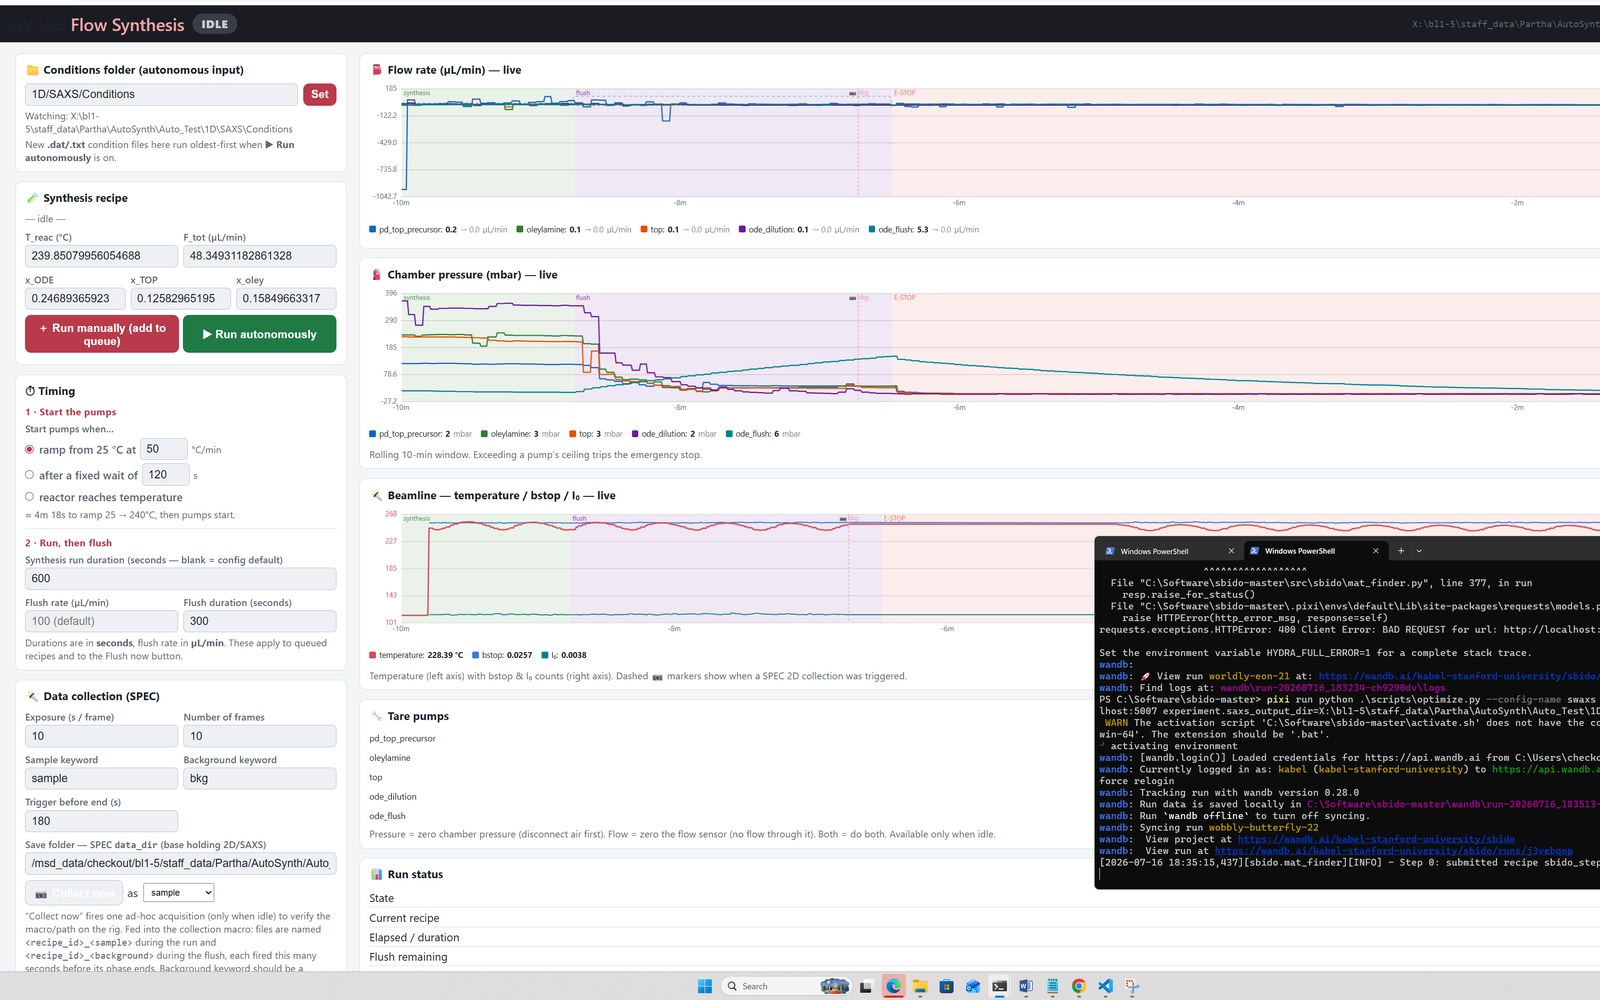
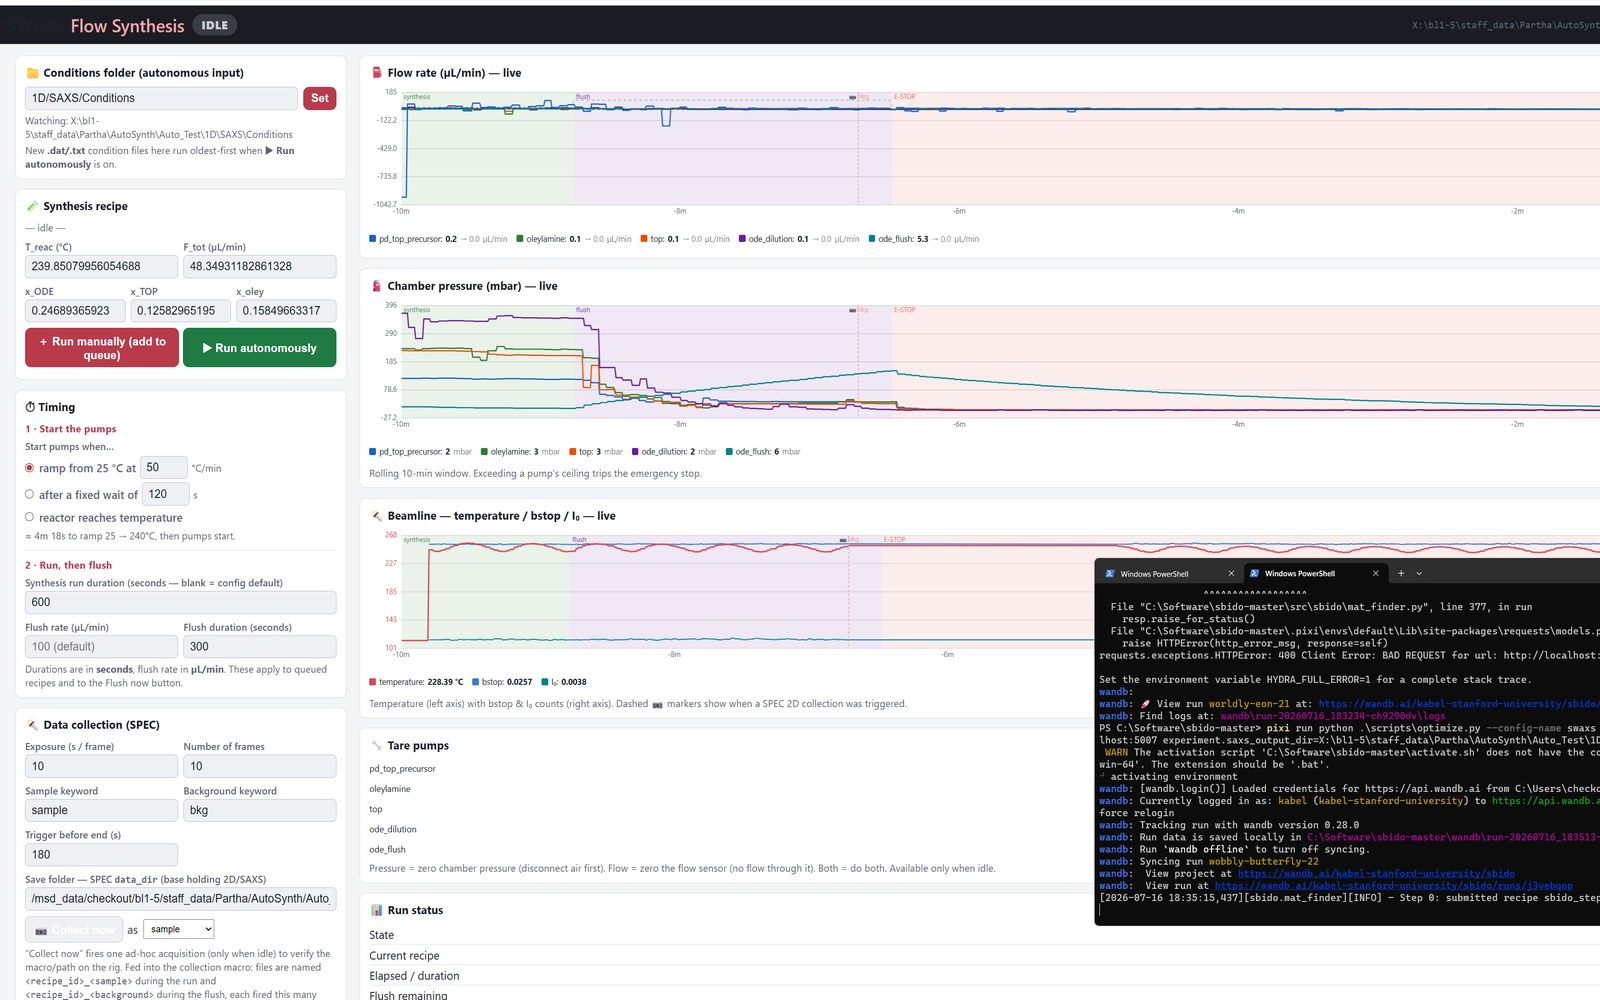
Add APS 12-ID-B RheoSAXS beamline card with cropped photos

diff --git a/index.html b/index.html
@@ -1430,12 +1430,43 @@
       <div class="bt-stats">
         <div class="bt-stat"><span class="bt-stat-n">5</span><span class="bt-stat-l">facilities</span></div>
         <div class="bt-stat"><span class="bt-stat-n">11</span><span class="bt-stat-l">beamlines</span></div>
-        <div class="bt-stat"><span class="bt-stat-n">2</span><span class="bt-stat-l">setups built</span></div>
+        <div class="bt-stat"><span class="bt-stat-n">3</span><span class="bt-stat-l">setups built</span></div>
         <div class="bt-stat"><span class="bt-stat-n">6</span><span class="bt-stat-l">techniques</span></div>
       </div>
 
       <h3 class="subhead">SSRL &#183; Stanford Synchrotron Radiation Lightsource</h3>
       <div class="bt-grid">
+        <article class="bt-card bt-feature">
+          <div class="bt-media">
+            <div class="slide-container">
+              <div class="slide-wrapper">
+                <img src="https://raw.githubusercontent.com/anjanikmaurya/anjanikmaurya.github.io/main/BL/BL15_AutoSynth_01.jpg" alt="Autonomous flow-synthesis reactor and syringe pumps in the beam at SSRL 1-5" loading="lazy">
+                <img src="https://raw.githubusercontent.com/anjanikmaurya/anjanikmaurya.github.io/main/BL/BL15_AutoSynth_02.jpg" alt="Control dashboard showing live flow rate, chamber pressure and beamline signals during an autonomous run" loading="lazy">
+              </div>
+            </div>
+          </div>
+          <div class="bt-body">
+            <div class="bt-head">
+              <span class="bt-id">1-5</span>
+              <span class="bt-fac">SSRL</span>
+              <span class="bt-new"><i class="fas fa-robot" aria-hidden="true"></i> Autonomous</span>
+            </div>
+            <p class="bt-desc">A closed-loop platform that synthesises a material and measures it in the
+               beam without a person in the loop. Precursors are pumped through a heated flow reactor
+               sitting in the X-ray beam, SAXS is collected on every condition, and an optimiser reads
+               the result and proposes the next recipe.</p>
+            <ol class="bt-loop">
+              <li><span>1</span> Propose a condition</li>
+              <li><span>2</span> Synthesise in flow</li>
+              <li><span>3</span> Measure SAXS</li>
+              <li><span>4</span> Learn, repeat</li>
+            </ol>
+            <p class="bt-note"><i class="fas fa-wrench" aria-hidden="true"></i> Built the platform: reactor
+               integration, live flow, pressure and beamline monitoring, automated SPEC acquisition, and a
+               pump-ceiling interlock that trips an emergency stop.</p>
+            <div class="bt-tags"><span>autonomous</span><span>SAXS</span><span>flow synthesis</span><span>AI / ML loop</span><span>self-driving experiment</span></div>
+          </div>
+        </article>
         <article class="bt-card">
           <div class="bt-media">
             <div class="slide-container">
